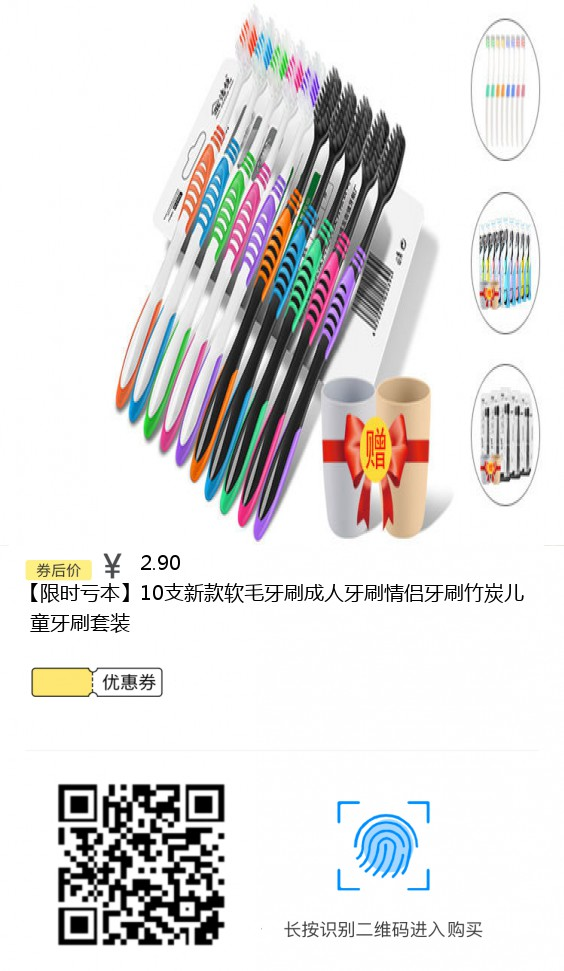
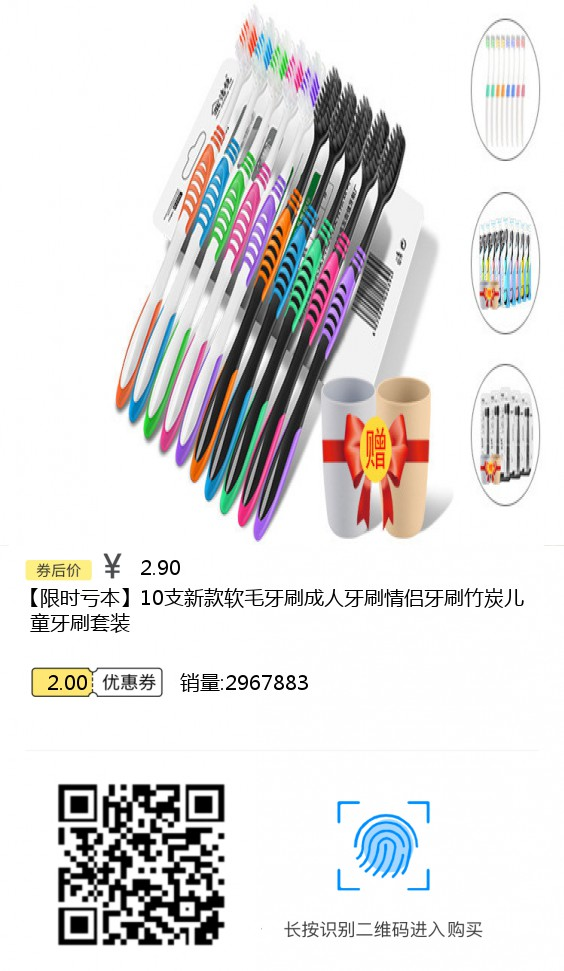
优惠卷添加

Changed region(s): [[0.0603, 0.5561, 0.9043, 0.6488], [0.3316, 0.6797, 0.5426, 0.7106], [0.0904, 0.6797, 0.1507, 0.7106]]

diff --git a/app/Http/Controllers/Api/Taoke/ShareController.php b/app/Http/Controllers/Api/Taoke/ShareController.php
@@ -49,7 +49,7 @@ class ShareController extends Controller
                 'size' => 20,
                 'color' => '#444',
                 'valign' => 'left',
-                'y' => 600
+                'y' => 605
             ],
             [
                 'text' => $str2,
@@ -65,11 +65,28 @@ class ShareController extends Controller
                 'position' => 'bottom',
                 'x' => 140,
                 'size' => 20,
+                'color' => '#9b9b9b',
+                'valign' => 'left',
+                'y' => 575
+            ],
+            [
+                'text' => $data['coupon_price'],
+                'position' => 'bottom',
+                'x' => 47,
+                'size' => 20,
                 'color' => '#444',
                 'valign' => 'left',
-                'y' => 570
-            ]
-
+                'y' => 690
+            ],
+            [
+                'text' => '销量:'.$data['volume'],
+                'position' => 'bottom',
+                'x' => 180,
+                'size' => 20,
+                'color' => '#9b9b9b',
+                'valign' => 'left',
+                'y' => 690
+            ],
         ] ;
         $qrcode->setImageArray ($imageArr);
         $qrcode->setTextArray ($textArr);
@@ -77,62 +94,5 @@ class ShareController extends Controller
         dd ($res);
         return json('1001','分享成功',$res);
     }
-
-//    public function index()
-//    {
-//        //目录路径
-//        $templateImage = public_path ('images/share.png');
-//        //文件名
-//        $fileName = 'bbbb.jpeg';
-//        //图片
-//        $qrcodeImage = public_path('images/') . $fileName;
-//        //生成图片
-//        $template = Image::make($templateImage);
-//        $headimage = Image::make('https://timgsa.baidu.com/timg?image&quality=80&size=b9999_10000&sec=1539434833642&di=e4d715bdf71fbcd240e4f1747c0d0f34&imgtype=0&src=http%3A%2F%2Fimg3.cache.netease.com%2Fgame%2F2013%2F11%2F21%2F20131121100455f28b0.png')->resize(350, 350);
-//
-//        $template->insert($headimage, 'bottom-left', 115, 50);
-//        //金额
-//        $template->text('123', 280, 1185, function ($font) {
-//            $font->file(public_path('fonts/msyh.ttf'));
-//            $font->size(47);
-//            $font->color('#9b9b9b');
-//            $font->valign('left');
-//        });
-//        $str1 = str_limit('【限时亏本】10支新款软毛牙刷成人牙刷情侣牙刷竹炭儿童牙刷套装', 50, '');
-//        $str2 = str_replace($str1, '', '【限时亏本】10支新款软毛牙刷成人牙刷情侣牙刷竹炭儿童牙刷套装');
-//        $template->text($str1, 40, 1250, function ($font) {
-//            $font->file(public_path('fonts/msyh.ttf'));
-//            $font->size(40);
-//            $font->color('#444');
-//            $font->align('center');
-//            $font->valign('left');
-//        });
-//        $template->text(str_limit($str2, 32, '...'), 55, 1300, function ($font) {
-//            $font->file(public_path('fonts/msyh.ttf'));
-//            $font->size(40);
-//            $font->color('#444');
-//            $font->align('center');
-//            $font->valign('left');
-//        });
-//        $template->text('10'.'元', 80, 1420, function ($font) {
-//            $font->file(public_path('fonts/msyh.ttf'));
-//            $font->size(35);
-//            $font->color('#0E0E0E');
-//            $font->valign('left');
-//        });
-//
-//        $template->text('销量:' . '131', 350, 1420, function ($font) {
-//            $font->file(public_path('fonts/msyh.ttf'));
-//            $font->size(40);
-//            $font->color('#9b9b9b');
-//            $font->valign('left');
-//        });
-//        $pic = Image::make('http://t00img.yangkeduo.com/goods/images/2018-10-09/19a53251208f9c09d927cad24a0445f0.jpeg')->resize(1123, 1123);
-//        $template->insert($pic, 'top', 0, 0);
-//        $template->save($qrcodeImage);
-//        dd($qrcodeImage);
-//        return asset ($qrcodeImage);
-//
-//    }
 
 }

diff --git a/app/Http/Controllers/Backend/Taoke/CouponsController.php b/app/Http/Controllers/Backend/Taoke/CouponsController.php
@@ -8,6 +8,8 @@ use App\Http\Requests\Taoke\CouponCreateRequest;
 use App\Http\Requests\Taoke\CouponUpdateRequest;
 use Prettus\Validator\Exceptions\ValidatorException;
 use App\Repositories\Interfaces\Taoke\CouponRepository;
+use Prettus\Validator\Contracts\ValidatorInterface;
+
 
 /**
  * Class CouponsController.
@@ -53,7 +55,7 @@ class CouponsController extends Controller
     public function store(CouponCreateRequest $request)
     {
         try {
-            $this->validator->with($request->all())->passesOrFail();
+            $this->validator->with($request->all())->passesOrFail(ValidatorInterface::RULE_CREATE);
 
             $coupon = $this->repository->create($request->all());
 
@@ -86,7 +88,7 @@ class CouponsController extends Controller
     public function update(CouponUpdateRequest $request, $id)
     {
         try {
-            $this->validator->with($request->all())->passesOrFail();
+            $this->validator->with($request->all())->passesOrFail(ValidatorInterface::RULE_UPDATE);
 
             $category = $this->repository->update($request->all(), $id);
 
